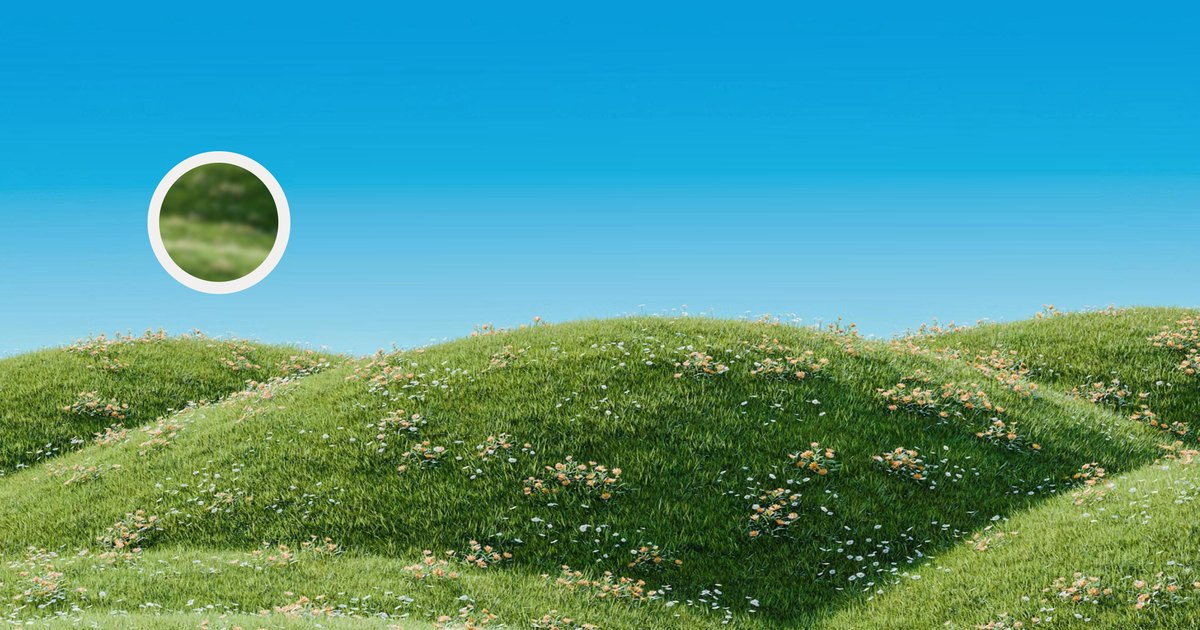
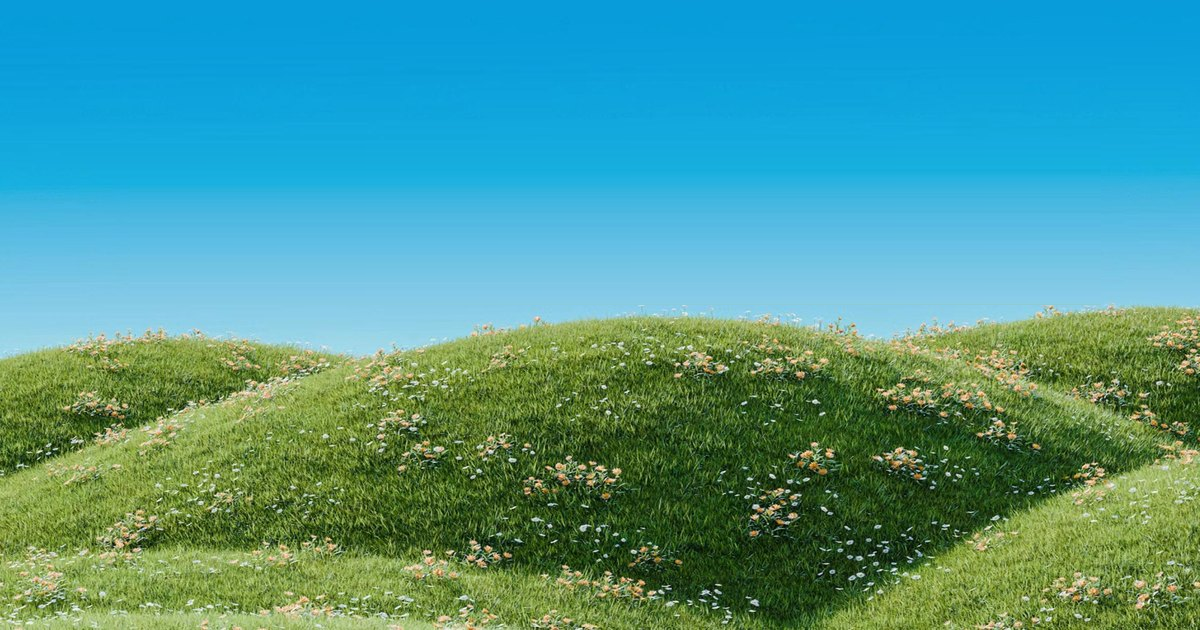
The repo is guyvolvo/oceanofjobs, and the share card carries the lighthouse
GitHub renamed the repo. Every link follows, and so do the two places
that break rather than redirect: the workflow-dispatch Lambda's repo
constant, since a POST to a renamed repo's API is not safely
followed, and github_repo in terraform, which the deploy roles' OIDC
trust policies are built from. Those policies already accept both
names (updated directly in IAM before this push, so this very deploy
could assume its roles); the apply this starts narrows them to the new
name.

The share card: ring and old wordmark erased from the sky, the
lighthouse mark set beside Ocean of Jobs, centred. og:image carries
?v=2 so link previews fetch the new card.

Changed region(s): [[0.1233, 0.2413, 0.2467, 0.4825]]

diff --git a/frontend/board.html b/frontend/board.html
@@ -35,13 +35,13 @@
   <meta property="og:url" content="https://oceanofjobs.com/board" />
   <meta property="og:title" content="OceanOfJobs.com" />
   <meta property="og:description" content="The open-source job board that makes hunting for your next opportunity easy, fast, and transparent." />
-  <meta property="og:image" content="https://oceanofjobs.com/og-hills.jpg" />
+  <meta property="og:image" content="https://oceanofjobs.com/og-hills.jpg?v=2" />
   <meta property="og:image:width" content="1200" />
   <meta property="og:image:height" content="630" />
   <meta name="twitter:card" content="summary_large_image" />
   <meta name="twitter:title" content="OceanOfJobs.com" />
   <meta name="twitter:description" content="The open-source job board that makes hunting for your next opportunity easy, fast, and transparent." />
-  <meta name="twitter:image" content="https://oceanofjobs.com/og-hills.jpg" />
+  <meta name="twitter:image" content="https://oceanofjobs.com/og-hills.jpg?v=2" />
   <!-- SVG first (crisp at any size, modern browsers use it over the .ico
        below); .ico stays for older browsers that don't support rel="icon"
        type="image/svg+xml" at all. apple-touch-icon is PNG-only -- iOS
@@ -181,7 +181,7 @@
         <!-- Populated entirely by app.js's renderAuthState(), same convention as the .ms filter dropdowns below -->
         <div class="auth-area" id="auth-area"></div>
         <button type="button" class="theme-toggle" id="theme-toggle" role="switch" aria-checked="false" aria-label="Dark mode"><span class="theme-knob" aria-hidden="true"></span><svg class="theme-ico theme-ico-moon" viewBox="0 0 24 24" width="16" height="16" fill="none" stroke="currentColor" stroke-width="1.5" stroke-linecap="round" stroke-linejoin="round" aria-hidden="true"><path d="M12 3a6 6 0 0 0 9 9 9 9 0 1 1-9-9Z"/></svg><svg class="theme-ico theme-ico-sun" viewBox="0 0 24 24" width="16" height="16" fill="none" stroke="currentColor" stroke-width="1.5" stroke-linecap="round" stroke-linejoin="round" aria-hidden="true"><circle cx="12" cy="12" r="4"/><path d="M12 2v2M12 20v2M4.93 4.93l1.41 1.41M17.66 17.66l1.41 1.41M2 12h2M20 12h2M6.34 17.66l-1.41 1.41M19.07 4.93l-1.41 1.41"/></svg></button>
-        <a class="icon-link" href="https://github.com/guyvolvo/opentechjobs" target="_blank" rel="noopener" aria-label="View source on GitHub" title="View source on GitHub">
+        <a class="icon-link" href="https://github.com/guyvolvo/oceanofjobs" target="_blank" rel="noopener" aria-label="View source on GitHub" title="View source on GitHub">
           <span class="visually-hidden">GitHub</span>
           <svg viewBox="0 0 16 16" width="18" height="18" fill="currentColor" aria-hidden="true"><path d="M8 0C3.58 0 0 3.58 0 8c0 3.54 2.29 6.53 5.47 7.59.4.07.55-.17.55-.38 0-.19-.01-.82-.01-1.49-2.01.37-2.53-.49-2.69-.94-.09-.23-.48-.94-.82-1.13-.28-.15-.68-.52-.01-.53.63-.01 1.08.58 1.23.82.72 1.21 1.87.87 2.33.66.07-.52.28-.87.51-1.07-1.78-.2-3.64-.89-3.64-3.95 0-.87.31-1.59.82-2.15-.08-.2-.36-1.02.08-2.12 0 0 .67-.21 2.2.82.64-.18 1.32-.27 2-.27.68 0 1.36.09 2 .27 1.53-1.04 2.2-.82 2.2-.82.44 1.1.16 1.92.08 2.12.51.56.82 1.27.82 2.15 0 3.07-1.87 3.75-3.65 3.95.29.25.54.73.54 1.48 0 1.07-.01 1.93-.01 2.2 0 .21.15.46.55.38A8.013 8.013 0 0016 8c0-4.42-3.58-8-8-8z"/></svg>
         </a>
@@ -403,7 +403,7 @@
              reference regardless. -->
         <a class="link" href="/api/help">API Reference</a>
         <a class="link" href="/privacy">Privacy</a>
-        <a class="link" href="https://github.com/guyvolvo/opentechjobs/blob/main/LICENSE" target="_blank" rel="noopener">MIT License</a>
+        <a class="link" href="https://github.com/guyvolvo/oceanofjobs/blob/main/LICENSE" target="_blank" rel="noopener">MIT License</a>
       </div>
       <!-- Buy Me a Coffee, on its own row under the footer links. The
            widget injects its own button, styled entirely by their script

diff --git a/frontend/contact.html b/frontend/contact.html
@@ -17,13 +17,13 @@
   <meta property="og:url" content="https://oceanofjobs.com/contact" />
   <meta property="og:title" content="Contact | Ocean of Jobs" />
   <meta property="og:description" content="Write to the person behind Ocean of Jobs: a question, a company to add, a bug, or just hello." />
-  <meta property="og:image" content="https://oceanofjobs.com/og-hills.jpg" />
+  <meta property="og:image" content="https://oceanofjobs.com/og-hills.jpg?v=2" />
   <meta property="og:image:width" content="1200" />
   <meta property="og:image:height" content="630" />
   <meta name="twitter:card" content="summary_large_image" />
   <meta name="twitter:title" content="Contact | Ocean of Jobs" />
   <meta name="twitter:description" content="Write to the person behind Ocean of Jobs: a question, a company to add, a bug, or just hello." />
-  <meta name="twitter:image" content="https://oceanofjobs.com/og-hills.jpg" />
+  <meta name="twitter:image" content="https://oceanofjobs.com/og-hills.jpg?v=2" />
   <link rel="icon" type="image/svg+xml" href="/favicon.svg?v=3" />
   <link rel="icon" type="image/png" sizes="32x32" href="/favicon-32.png?v=3" />
   <link rel="icon" type="image/png" sizes="16x16" href="/favicon-16.png?v=3" />
@@ -75,7 +75,7 @@
           <span class="contact-way-text"><span class="contact-way-name">GitHub</span><span class="contact-way-value">github.com/guyvolvo</span></span>
           <span class="contact-way-go" aria-hidden="true">&#8599;</span>
         </a>
-        <a class="contact-way" href="https://github.com/guyvolvo/opentechjobs/issues" target="_blank" rel="noopener">
+        <a class="contact-way" href="https://github.com/guyvolvo/oceanofjobs/issues" target="_blank" rel="noopener">
           <svg class="contact-way-icon" viewBox="0 0 20 20" aria-hidden="true" focusable="false"><ellipse cx="10" cy="11.5" rx="4" ry="5" fill="none" stroke="currentColor" stroke-width="1.6"/><path d="M10 6.5v10M6 11H2.5M17.5 11H14M6.5 7.5L4 5M13.5 7.5L16 5M6.5 15.5L4 18M13.5 15.5L16 18" fill="none" stroke="currentColor" stroke-width="1.4"/></svg>
           <span class="contact-way-text"><span class="contact-way-name">Bug reports</span><span class="contact-way-value">Open an issue in the repository</span></span>
           <span class="contact-way-go" aria-hidden="true">&#8599;</span>
@@ -112,7 +112,7 @@
         <aside class="contact-bugnote" id="contact-bugnote" hidden>
           <svg class="contact-bugnote-icon" viewBox="0 0 20 20" aria-hidden="true" focusable="false"><ellipse cx="10" cy="11.5" rx="4" ry="5" fill="none" stroke="currentColor" stroke-width="1.6"/><path d="M10 6.5v10M6 11H2.5M17.5 11H14M6.5 7.5L4 5M13.5 7.5L16 5M6.5 15.5L4 18M13.5 15.5L16 18" fill="none" stroke="currentColor" stroke-width="1.4"/></svg>
           <span>Bugs get fixed faster as a GitHub issue, where others can see it and add to it.</span>
-          <a href="https://github.com/guyvolvo/opentechjobs/issues/new" target="_blank" rel="noopener">Open an issue &#8599;</a>
+          <a href="https://github.com/guyvolvo/oceanofjobs/issues/new" target="_blank" rel="noopener">Open an issue &#8599;</a>
         </aside>
 
         <div class="contact-pair">

diff --git a/frontend/privacy.html b/frontend/privacy.html
@@ -23,13 +23,13 @@
   <meta property="og:url" content="https://oceanofjobs.com/privacy" />
   <meta property="og:title" content="OceanOfJobs.com Privacy Policy" />
   <meta property="og:description" content="What OceanOfJobs.com collects, why, and how to remove it." />
-  <meta property="og:image" content="https://oceanofjobs.com/og-hills.jpg" />
+  <meta property="og:image" content="https://oceanofjobs.com/og-hills.jpg?v=2" />
   <meta property="og:image:width" content="1200" />
   <meta property="og:image:height" content="630" />
   <meta name="twitter:card" content="summary_large_image" />
   <meta name="twitter:title" content="OceanOfJobs.com Privacy Policy" />
   <meta name="twitter:description" content="What OceanOfJobs.com collects, why, and how to remove it." />
-  <meta name="twitter:image" content="https://oceanofjobs.com/og-hills.jpg" />
+  <meta name="twitter:image" content="https://oceanofjobs.com/og-hills.jpg?v=2" />
   <link rel="icon" type="image/svg+xml" href="favicon.svg?v=3" />
   <link rel="icon" type="image/png" sizes="32x32" href="favicon-32.png?v=3" />
   <link rel="icon" type="image/png" sizes="16x16" href="favicon-16.png?v=3" />
@@ -79,7 +79,7 @@
         <p>If any changes are made to this policy, this page will be updated to reflect them.</p>
 
         <h3>Questions</h3>
-        <p>OceanOfJobs.com is maintained as an open-source project. For privacy questions or data requests, open an issue on <a class="link" href="https://github.com/guyvolvo/opentechjobs" target="_blank" rel="noopener">our GitHub repository</a> or contact the maintainer directly.</p>
+        <p>OceanOfJobs.com is maintained as an open-source project. For privacy questions or data requests, open an issue on <a class="link" href="https://github.com/guyvolvo/oceanofjobs" target="_blank" rel="noopener">our GitHub repository</a> or contact the maintainer directly.</p>
 
         <p class="legal-back"><a class="link" href="/board">&larr; Back to the job board</a></p>
       </div>

diff --git a/frontend/index.html b/frontend/index.html
@@ -45,7 +45,7 @@
         "name": "Ocean of Jobs",
         "url": "https://oceanofjobs.com/",
         "logo": "https://oceanofjobs.com/favicon-512.png",
-        "sameAs": ["https://github.com/guyvolvo/opentechjobs"]
+        "sameAs": ["https://github.com/guyvolvo/oceanofjobs"]
       }
     ]
   }
@@ -54,13 +54,13 @@
   <meta property="og:url" content="https://oceanofjobs.com/" />
   <meta property="og:title" content="OceanOfJobs.com" />
   <meta property="og:description" content="Open-source tech job board. Scrapes job listings directly from ATS APIs, and company career pages, tracks them over time, and serves them through a lightweight public API." />
-  <meta property="og:image" content="https://oceanofjobs.com/og-hills.jpg" />
+  <meta property="og:image" content="https://oceanofjobs.com/og-hills.jpg?v=2" />
   <meta property="og:image:width" content="1200" />
   <meta property="og:image:height" content="630" />
   <meta name="twitter:card" content="summary_large_image" />
   <meta name="twitter:title" content="OceanOfJobs.com" />
   <meta name="twitter:description" content="Open-source tech job board. Scrapes job listings directly from ATS APIs, and company career pages, tracks them over time, and serves them through a lightweight public API." />
-  <meta name="twitter:image" content="https://oceanofjobs.com/og-hills.jpg" />
+  <meta name="twitter:image" content="https://oceanofjobs.com/og-hills.jpg?v=2" />
   <script>
     // GitHub sign-in hands its tokens back in the fragment, which never
     // reaches CloudFront, so the edge cannot forward it the way it

diff --git a/frontend/stats.html b/frontend/stats.html
@@ -21,13 +21,13 @@
   <meta property="og:url" content="https://oceanofjobs.com/stats" />
   <meta property="og:title" content="Ocean of Jobs: Explore" />
   <meta property="og:description" content="Ask questions of every listing we track. Pick filters and a grouping, or write SQL." />
-  <meta property="og:image" content="https://oceanofjobs.com/og-hills.jpg" />
+  <meta property="og:image" content="https://oceanofjobs.com/og-hills.jpg?v=2" />
   <meta property="og:image:width" content="1200" />
   <meta property="og:image:height" content="630" />
   <meta name="twitter:card" content="summary_large_image" />
   <meta name="twitter:title" content="Ocean of Jobs: Explore" />
   <meta name="twitter:description" content="Ask questions of every listing we track. Pick filters and a grouping, or write SQL." />
-  <meta name="twitter:image" content="https://oceanofjobs.com/og-hills.jpg" />
+  <meta name="twitter:image" content="https://oceanofjobs.com/og-hills.jpg?v=2" />
   <link rel="icon" type="image/svg+xml" href="favicon.svg?v=3" />
   <link rel="icon" type="image/png" sizes="32x32" href="favicon-32.png?v=3" />
   <link rel="icon" type="image/png" sizes="16x16" href="favicon-16.png?v=3" />

diff --git a/frontend/404.html b/frontend/404.html
@@ -17,13 +17,13 @@
   <meta property="og:url" content="https://oceanofjobs.com/" />
   <meta property="og:title" content="OceanOfJobs.com" />
   <meta property="og:description" content="The open-source job board that makes hunting for your next opportunity easy, fast, and transparent." />
-  <meta property="og:image" content="https://oceanofjobs.com/og-hills.jpg" />
+  <meta property="og:image" content="https://oceanofjobs.com/og-hills.jpg?v=2" />
   <meta property="og:image:width" content="1200" />
   <meta property="og:image:height" content="630" />
   <meta name="twitter:card" content="summary_large_image" />
   <meta name="twitter:title" content="OceanOfJobs.com" />
   <meta name="twitter:description" content="The open-source job board that makes hunting for your next opportunity easy, fast, and transparent." />
-  <meta name="twitter:image" content="https://oceanofjobs.com/og-hills.jpg" />
+  <meta name="twitter:image" content="https://oceanofjobs.com/og-hills.jpg?v=2" />
   <meta name="robots" content="noindex" />
   <!-- Every path here is absolute. CloudFront serves this page for any
        address the site does not have, /jobs/some-old-role included, and a

diff --git a/frontend/account.html b/frontend/account.html
@@ -23,13 +23,13 @@
   <meta property="og:url" content="https://oceanofjobs.com/account" />
   <meta property="og:title" content="Ocean of Jobs: Account" />
   <meta property="og:description" content="Your saved alerts, the skills you want matched, and what we store about you." />
-  <meta property="og:image" content="https://oceanofjobs.com/og-hills.jpg" />
+  <meta property="og:image" content="https://oceanofjobs.com/og-hills.jpg?v=2" />
   <meta property="og:image:width" content="1200" />
   <meta property="og:image:height" content="630" />
   <meta name="twitter:card" content="summary_large_image" />
   <meta name="twitter:title" content="Ocean of Jobs: Account" />
   <meta name="twitter:description" content="Your saved alerts, the skills you want matched, and what we store about you." />
-  <meta name="twitter:image" content="https://oceanofjobs.com/og-hills.jpg" />
+  <meta name="twitter:image" content="https://oceanofjobs.com/og-hills.jpg?v=2" />
   <!-- No og: tags and noindex: this page is only meaningful signed in,
        and a shared link to it would show a stranger their own empty
        account rather than anything worth previewing. -->

diff --git a/scripts/brand/og.html b/scripts/brand/og.html
@@ -4,6 +4,8 @@
   @font-face { font-family: "Overused Grotesk"; src: url("../../frontend/fonts/OverusedGrotesk-VF.woff2") format("woff2-variations"); font-weight: 300 900; }
   html, body { margin: 0; }
   .card { position: relative; width: 1200px; height: 630px; background: url("og-hills-blank.png"); }
-  .word { position: absolute; left: 300px; top: 137px; font: 400 118px/1 "Overused Grotesk"; letter-spacing: -0.01em; color: #fff; white-space: nowrap; }
+  .lock { position: absolute; left: 0; right: 0; top: 150px; display: flex; align-items: center; justify-content: center; gap: 28px; }
+  .mark { width: 148px; height: 148px; filter: drop-shadow(0 6px 18px rgba(0, 40, 80, 0.25)); }
+  .word { font: 500 104px/1 "Overused Grotesk"; letter-spacing: -0.015em; color: #fff; white-space: nowrap; text-shadow: 0 2px 16px rgba(0, 40, 80, 0.18); }
 </style>
-<div class="card"><div class="word">cean of Jobs</div></div>
+<div class="card"><div class="lock"><img class="mark" src="../../brand/mark-light.png" alt=""><div class="word">Ocean of Jobs</div></div></div>

diff --git a/frontend/mobile_nav.js b/frontend/mobile_nav.js
@@ -108,7 +108,7 @@
     }
     rows.push(`<a class="hero-nav-item" href="/api/help">${icons.code}API reference</a>`);
     rows.push(`<a class="hero-nav-item" href="/contact">${icons.chat}Contact</a>`);
-    rows.push(`<a class="hero-nav-item" href="https://github.com/guyvolvo/opentechjobs" target="_blank" rel="noopener">${icons.github}GitHub</a>`);
+    rows.push(`<a class="hero-nav-item" href="https://github.com/guyvolvo/oceanofjobs" target="_blank" rel="noopener">${icons.github}GitHub</a>`);
     rows.push(`<button type="button" class="hero-nav-item" data-act="theme">${isDark() ? icons.sun : icons.moon}${isDark() ? "Light mode" : "Dark mode"}</button>`);
     if (who) rows.push(`<button type="button" class="hero-nav-item hero-nav-out" data-act="signout">${icons.out}Log out</button>`);
     // Wrapped, because the slide is a transform on the list and the

diff --git a/api/openapi.py b/api/openapi.py
@@ -478,7 +478,7 @@ def spec() -> dict:
             "summary": "Every job, company and market figure on the board, as JSON.",
             "description": DESCRIPTION,
             "license": {"name": "Source on GitHub",
-                        "url": "https://github.com/guyvolvo/opentechjobs"},
+                        "url": "https://github.com/guyvolvo/oceanofjobs"},
         },
         "servers": [{"url": f"{SITE}/api", "description": "Production (HTTPS only)"}],
         "tags": [

diff --git a/api/job_page.py b/api/job_page.py
@@ -37,7 +37,7 @@ from datetime import datetime, timedelta, timezone
 from countries import label_for
 
 SITE = "https://oceanofjobs.com"
-CARD = f"{SITE}/og-hills.jpg"
+CARD = f"{SITE}/og-hills.jpg?v=2"
 EXPIRED_KEEP_DAYS = 30
 
 SENIORITY_LABELS = {

diff --git a/dispatch_workflow_handler.py b/dispatch_workflow_handler.py
@@ -28,7 +28,7 @@ import urllib.request
 
 import boto3
 
-REPO = "guyvolvo/opentechjobs"
+REPO = "guyvolvo/oceanofjobs"
 TOKEN_PARAM = "/iljobs/github-dispatch-token"
 
 
